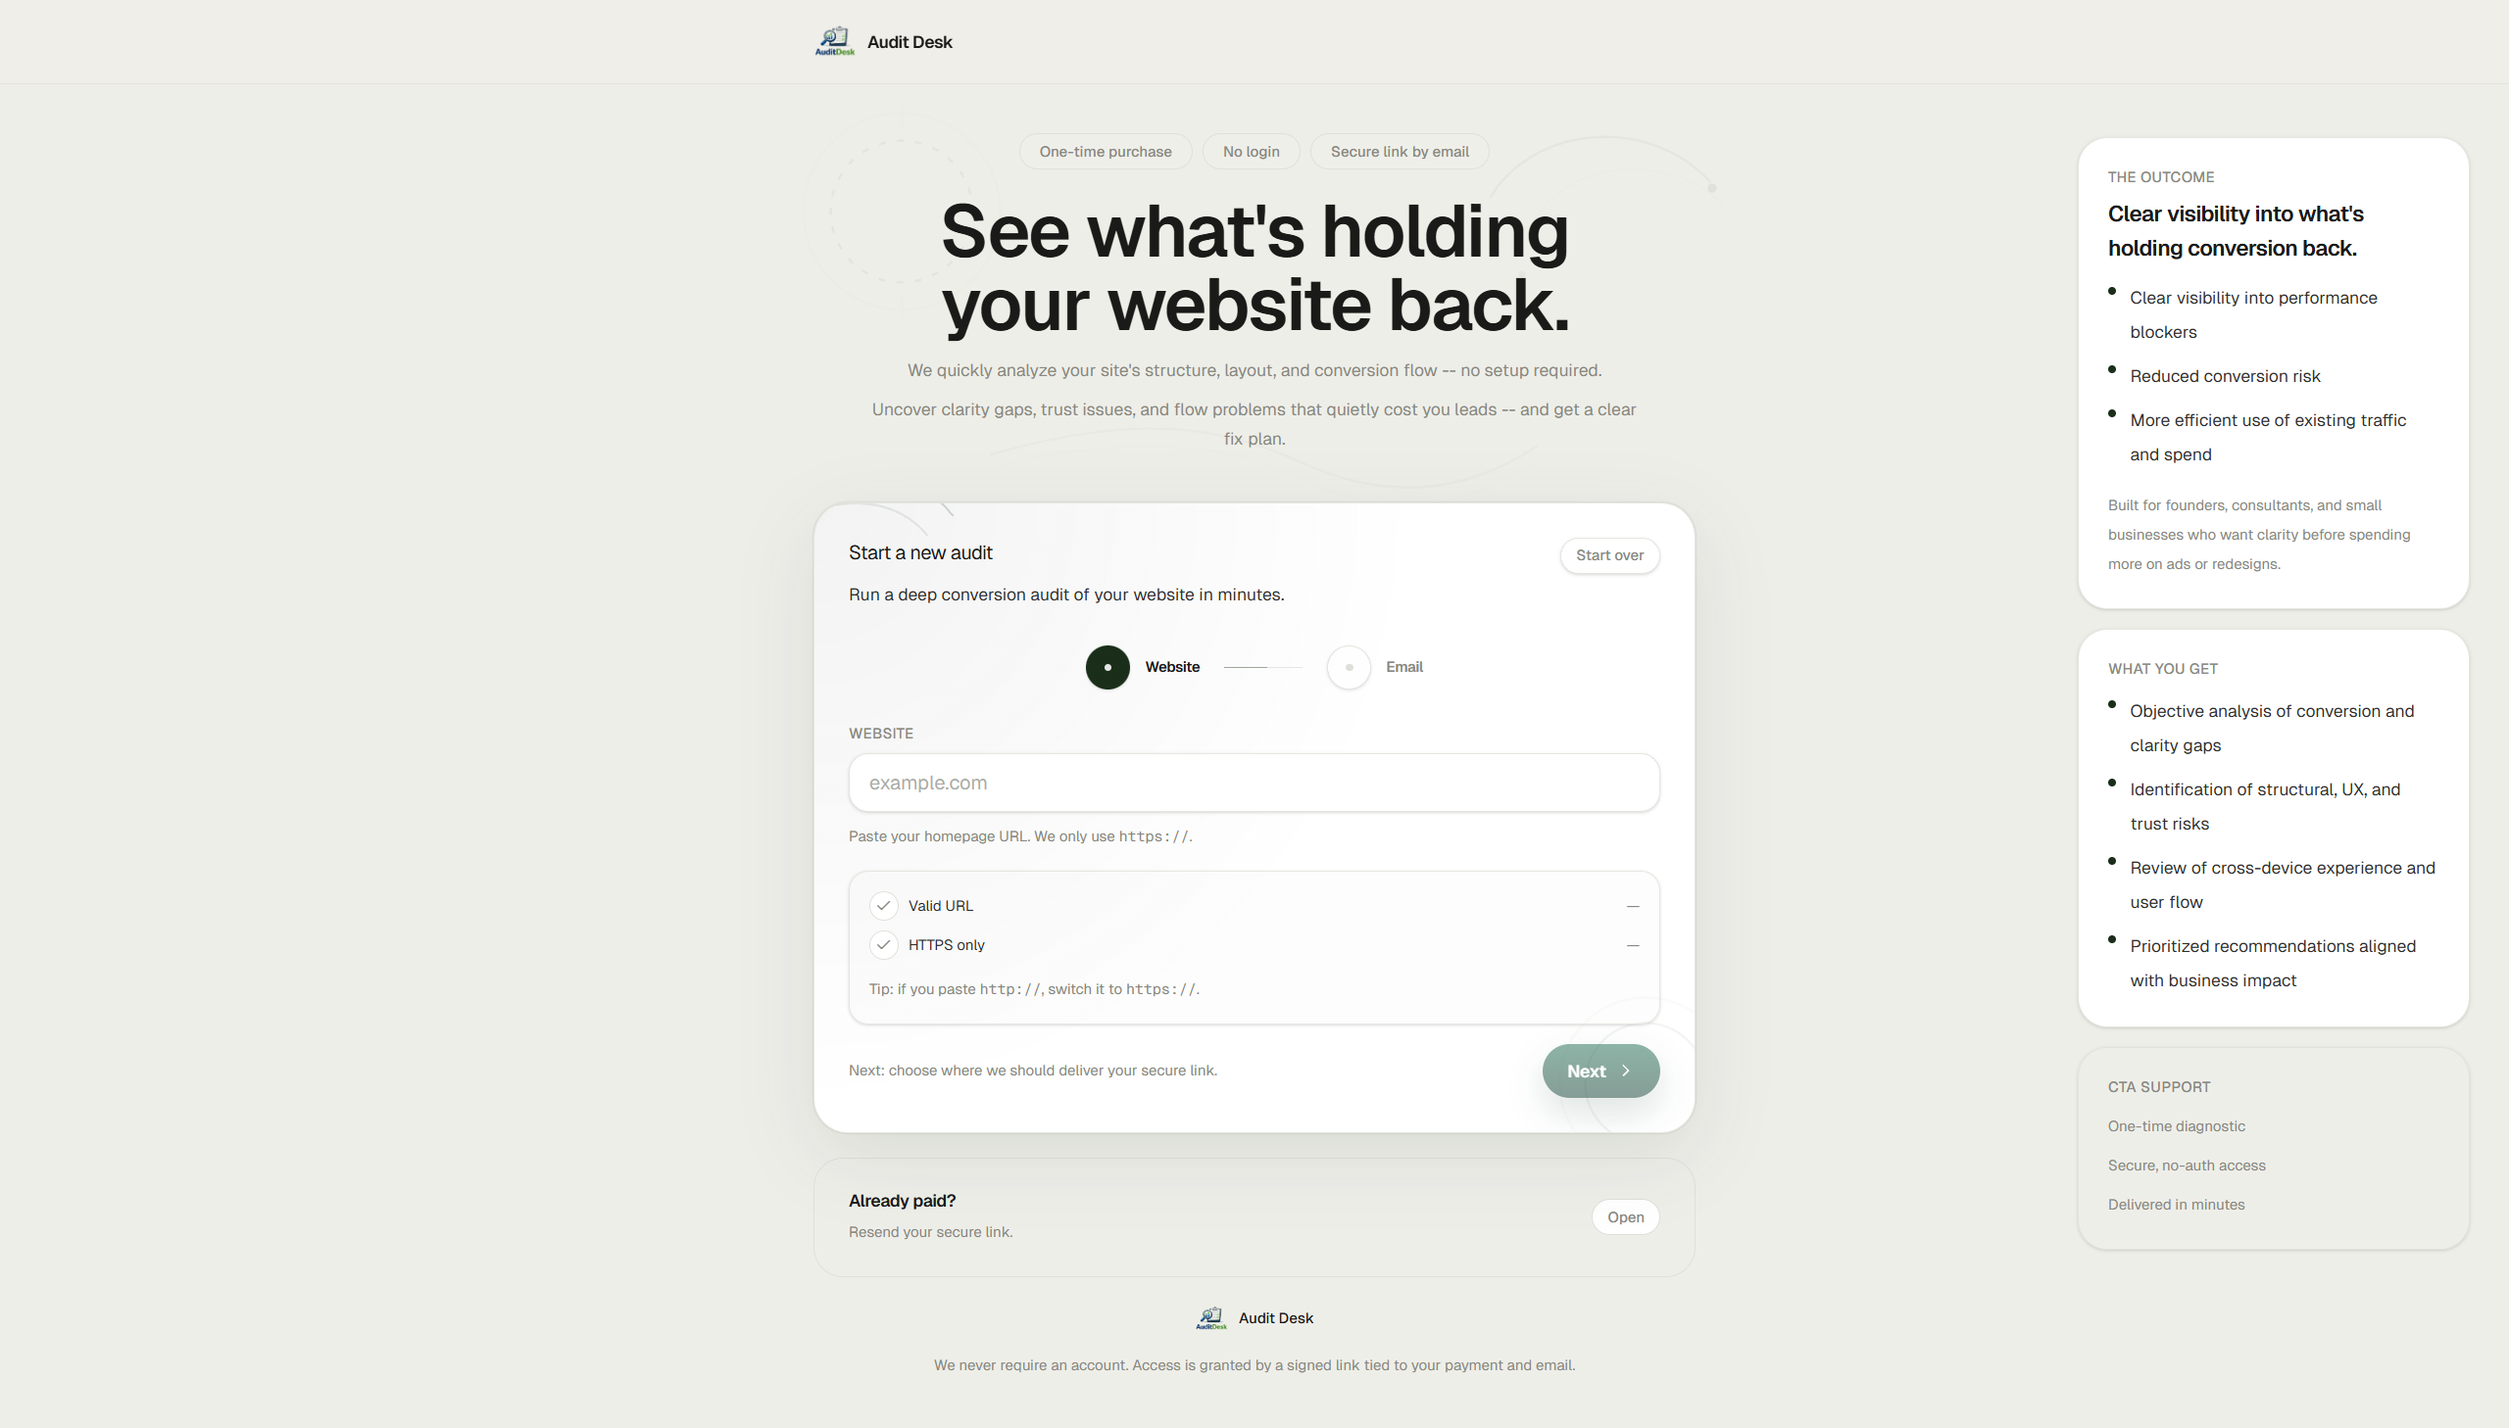
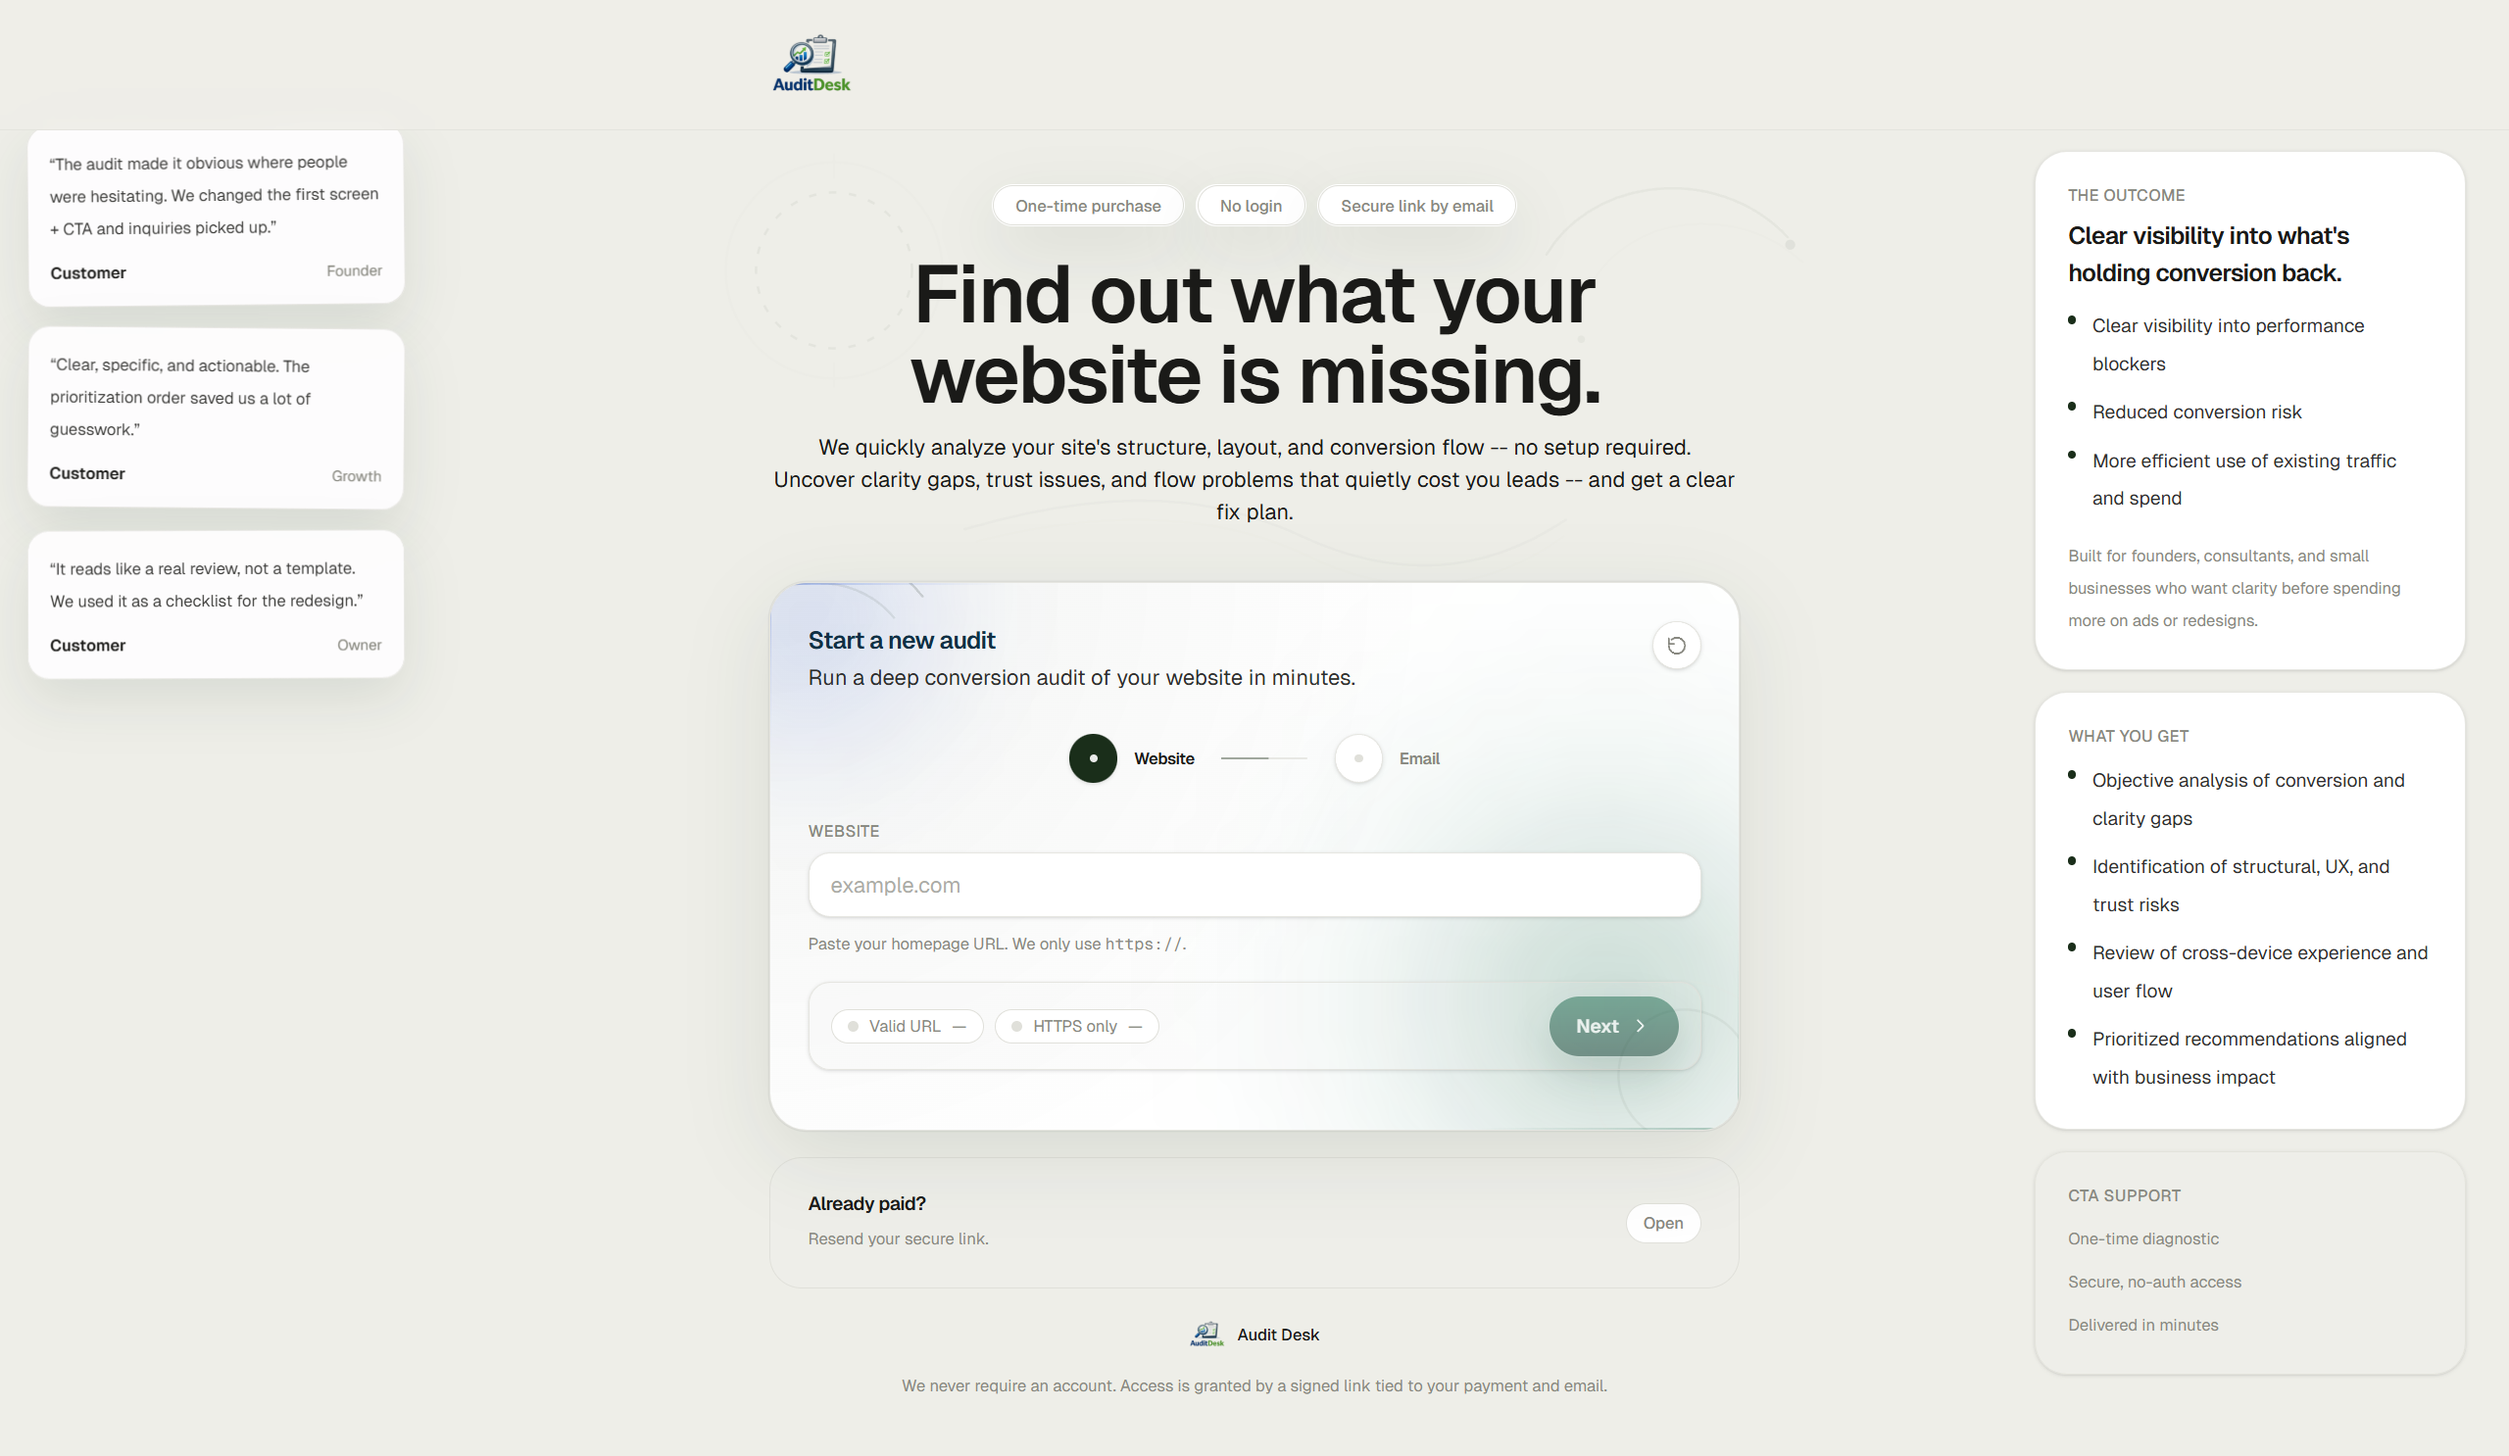
--update img

diff --git a/components/ProjectCard.tsx b/components/ProjectCard.tsx
@@ -46,101 +46,101 @@ const ProjectCard: React.FC<ProjectCardProps> = ({
             if (e.key === "Enter" || e.key === " ") onClick(project);
           }}
         >
-        <div
-          className={[
-            mediaClassName ?? (isBento ? "aspect-[16/10]" : "aspect-video"),
-            "bg-zinc-100 relative overflow-hidden",
-          ].join(" ")}
-        >
-          {project.image ? (
-            <img
-              src={project.image}
-              alt={project.title}
-              className={[
-                "w-full h-full object-cover transition-transform duration-500",
-                isBento ? "group-hover:scale-[1.03]" : "group-hover:scale-105",
-              ].join(" ")}
-            />
-          ) : (
-            <div className="w-full h-full flex items-center justify-center bg-zinc-200 text-zinc-400 font-bold uppercase tracking-widest text-xs">
-              Preview Available
-            </div>
-          )}
-
-          <div className="absolute top-3 left-3">
-            <span className="px-2 py-1 bg-white/90 backdrop-blur shadow-sm text-[10px] font-bold text-zinc-900 rounded uppercase">
-              {project.type}
-            </span>
-          </div>
-
           <div
             className={[
-              "absolute inset-0 transition-opacity duration-300",
-              isBento
-                ? "bg-gradient-to-b from-black/0 via-black/0 to-black/10 opacity-100"
-                : "bg-black/0 group-hover:bg-black/5 opacity-100",
-            ].join(" ")}
-          />
-        </div>
-
-        <div className={isBento ? "p-6 space-y-2 flex-1 flex flex-col" : "p-5 space-y-2 flex-1 flex flex-col"}>
-          <h3
-            className={[
-              "font-bold text-zinc-900 transition-colors",
-              isBento ? "text-xl tracking-tight" : "text-lg",
-              "group-hover:text-blue-600",
+              mediaClassName ?? (isBento ? "aspect-[16/10]" : "aspect-video"),
+              "bg-zinc-100 relative overflow-hidden",
             ].join(" ")}
           >
-            {project.title}
-          </h3>
-          <p className={isBento ? "text-zinc-500 text-sm leading-relaxed line-clamp-3 flex-1" : "text-zinc-500 text-sm line-clamp-2 flex-1"}>
-            {project.shortDescription}
-          </p>
-
-          <div className={isBento ? "flex flex-wrap gap-1.5 pt-4" : "flex flex-wrap gap-1.5 pt-4"}>
-            {chips.map((tech) => (
-              <span
-                key={tech}
+            {project.image ? (
+              <img
+                src={project.image}
+                alt={project.title}
                 className={[
-                  "px-2 py-0.5 text-[10px] font-semibold uppercase tracking-wider rounded",
-                  isBento
-                    ? "bg-zinc-50 border border-zinc-100 text-zinc-500"
-                    : "bg-zinc-50 border border-zinc-100 text-zinc-400",
+                  "w-full h-full object-cover transition-transform duration-500",
+                  isBento ? "group-hover:scale-[1.03]" : "group-hover:scale-105",
                 ].join(" ")}
-              >
-                {tech}
-              </span>
-            ))}
-            {isBento && remainingChipCount > 0 && (
-              <span className="px-2 py-0.5 bg-zinc-50 border border-zinc-100 text-[10px] font-semibold text-zinc-500 uppercase tracking-wider rounded">
-                +{remainingChipCount}
-              </span>
+              />
+            ) : (
+              <div className="w-full h-full flex items-center justify-center bg-zinc-200 text-zinc-400 font-bold uppercase tracking-widest text-xs">
+                Preview Available
+              </div>
             )}
-          </div>
 
-          {isBento && (
-            <div className="pt-5 flex items-center justify-between">
-              <span className="text-xs font-bold uppercase tracking-[0.18em] text-zinc-400">
-                View project
-              </span>
-              <span className="w-10 h-10 rounded-full border border-zinc-100 bg-white flex items-center justify-center transition-transform duration-200 group-hover:translate-x-0.5">
-                <svg
-                  className="w-4 h-4 text-zinc-700"
-                  fill="none"
-                  viewBox="0 0 24 24"
-                  stroke="currentColor"
-                >
-                  <path
-                    strokeLinecap="round"
-                    strokeLinejoin="round"
-                    strokeWidth={2}
-                    d="M7 17L17 7M17 7H9M17 7v8"
-                  />
-                </svg>
+            <div className="absolute top-3 left-3">
+              <span className="px-2 py-1 bg-white/90 backdrop-blur shadow-sm text-[10px] font-bold text-zinc-900 rounded uppercase">
+                {project.type}
               </span>
             </div>
-          )}
-        </div>
+
+            <div
+              className={[
+                "absolute inset-0 transition-opacity duration-300",
+                isBento
+                  ? "bg-gradient-to-b from-black/0 via-black/0 to-black/10 opacity-100"
+                  : "bg-black/0 group-hover:bg-black/5 opacity-100",
+              ].join(" ")}
+            />
+          </div>
+
+          <div className={isBento ? "p-6 space-y-2 flex-1 flex flex-col" : "p-5 space-y-2 flex-1 flex flex-col"}>
+            <h3
+              className={[
+                "font-sans text-zinc-900 transition-colors",
+                isBento ? "text-xl tracking-tight" : "text-lg",
+                "group-hover:text-blue-600",
+              ].join(" ")}
+            >
+              {project.title}
+            </h3>
+            <p className={isBento ? "text-zinc-500 text-sm leading-relaxed line-clamp-3 flex-1" : "text-zinc-500 text-sm line-clamp-2 flex-1"}>
+              {project.shortDescription}
+            </p>
+
+            <div className={isBento ? "flex flex-wrap gap-1.5 pt-4" : "flex flex-wrap gap-1.5 pt-4"}>
+              {chips.map((tech) => (
+                <span
+                  key={tech}
+                  className={[
+                    "px-2 py-0.5 text-[10px] font-semibold uppercase tracking-wider rounded",
+                    isBento
+                      ? "bg-zinc-50 border border-zinc-100 text-zinc-500"
+                      : "bg-zinc-50 border border-zinc-100 text-zinc-400",
+                  ].join(" ")}
+                >
+                  {tech}
+                </span>
+              ))}
+              {isBento && remainingChipCount > 0 && (
+                <span className="px-2 py-0.5 bg-zinc-50 border border-zinc-100 text-[10px] font-semibold text-zinc-500 uppercase tracking-wider rounded">
+                  +{remainingChipCount}
+                </span>
+              )}
+            </div>
+
+            {isBento && (
+              <div className="pt-5 flex items-center justify-between">
+                <span className="text-xs font-bold uppercase tracking-[0.18em] text-zinc-400">
+                  View project
+                </span>
+                <span className="w-10 h-10 rounded-full border border-zinc-100 bg-white flex items-center justify-center transition-transform duration-200 group-hover:translate-x-0.5">
+                  <svg
+                    className="w-4 h-4 text-zinc-700"
+                    fill="none"
+                    viewBox="0 0 24 24"
+                    stroke="currentColor"
+                  >
+                    <path
+                      strokeLinecap="round"
+                      strokeLinejoin="round"
+                      strokeWidth={2}
+                      d="M7 17L17 7M17 7H9M17 7v8"
+                    />
+                  </svg>
+                </span>
+              </div>
+            )}
+          </div>
         </div>
       </div>
     </div>
